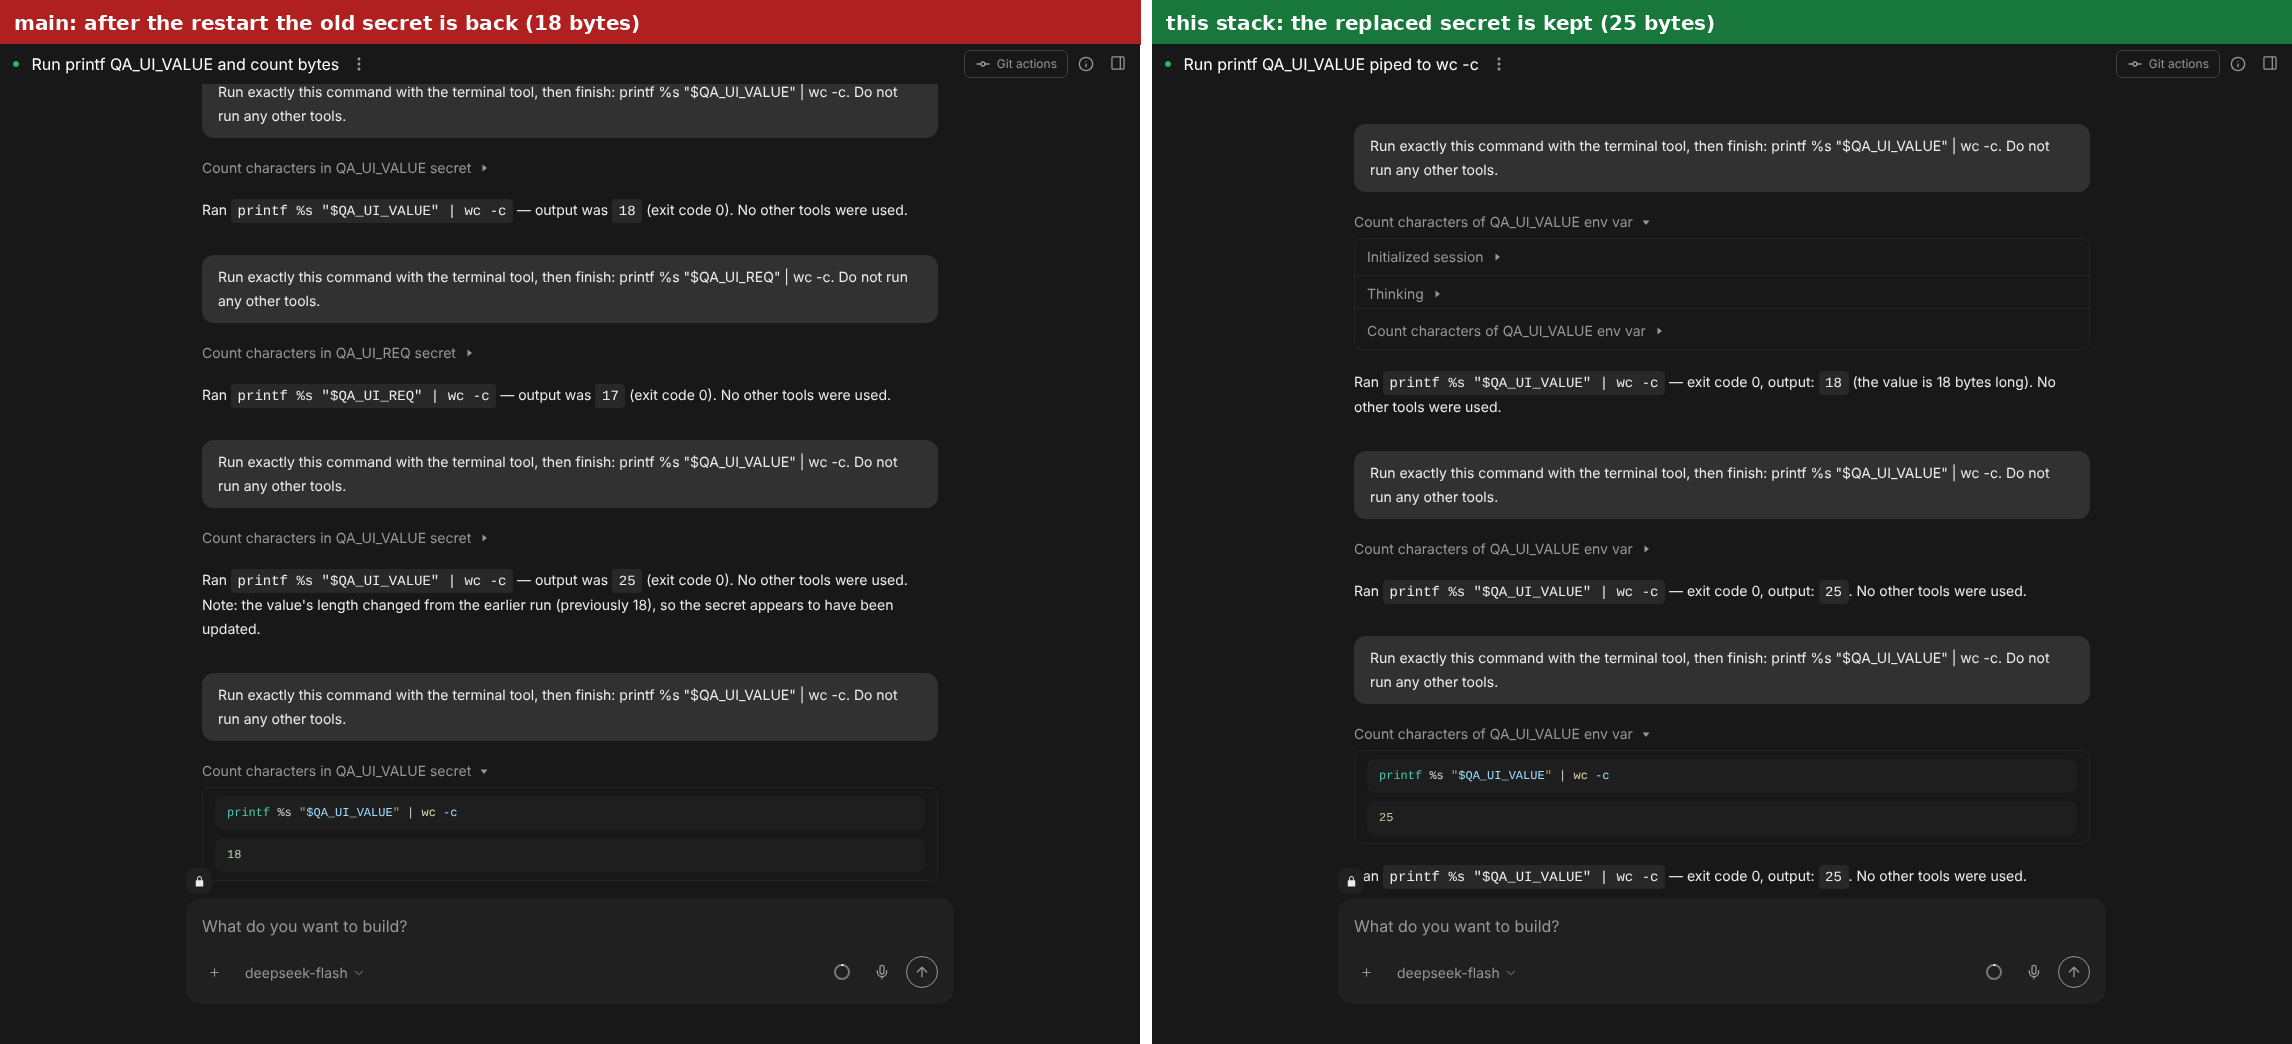
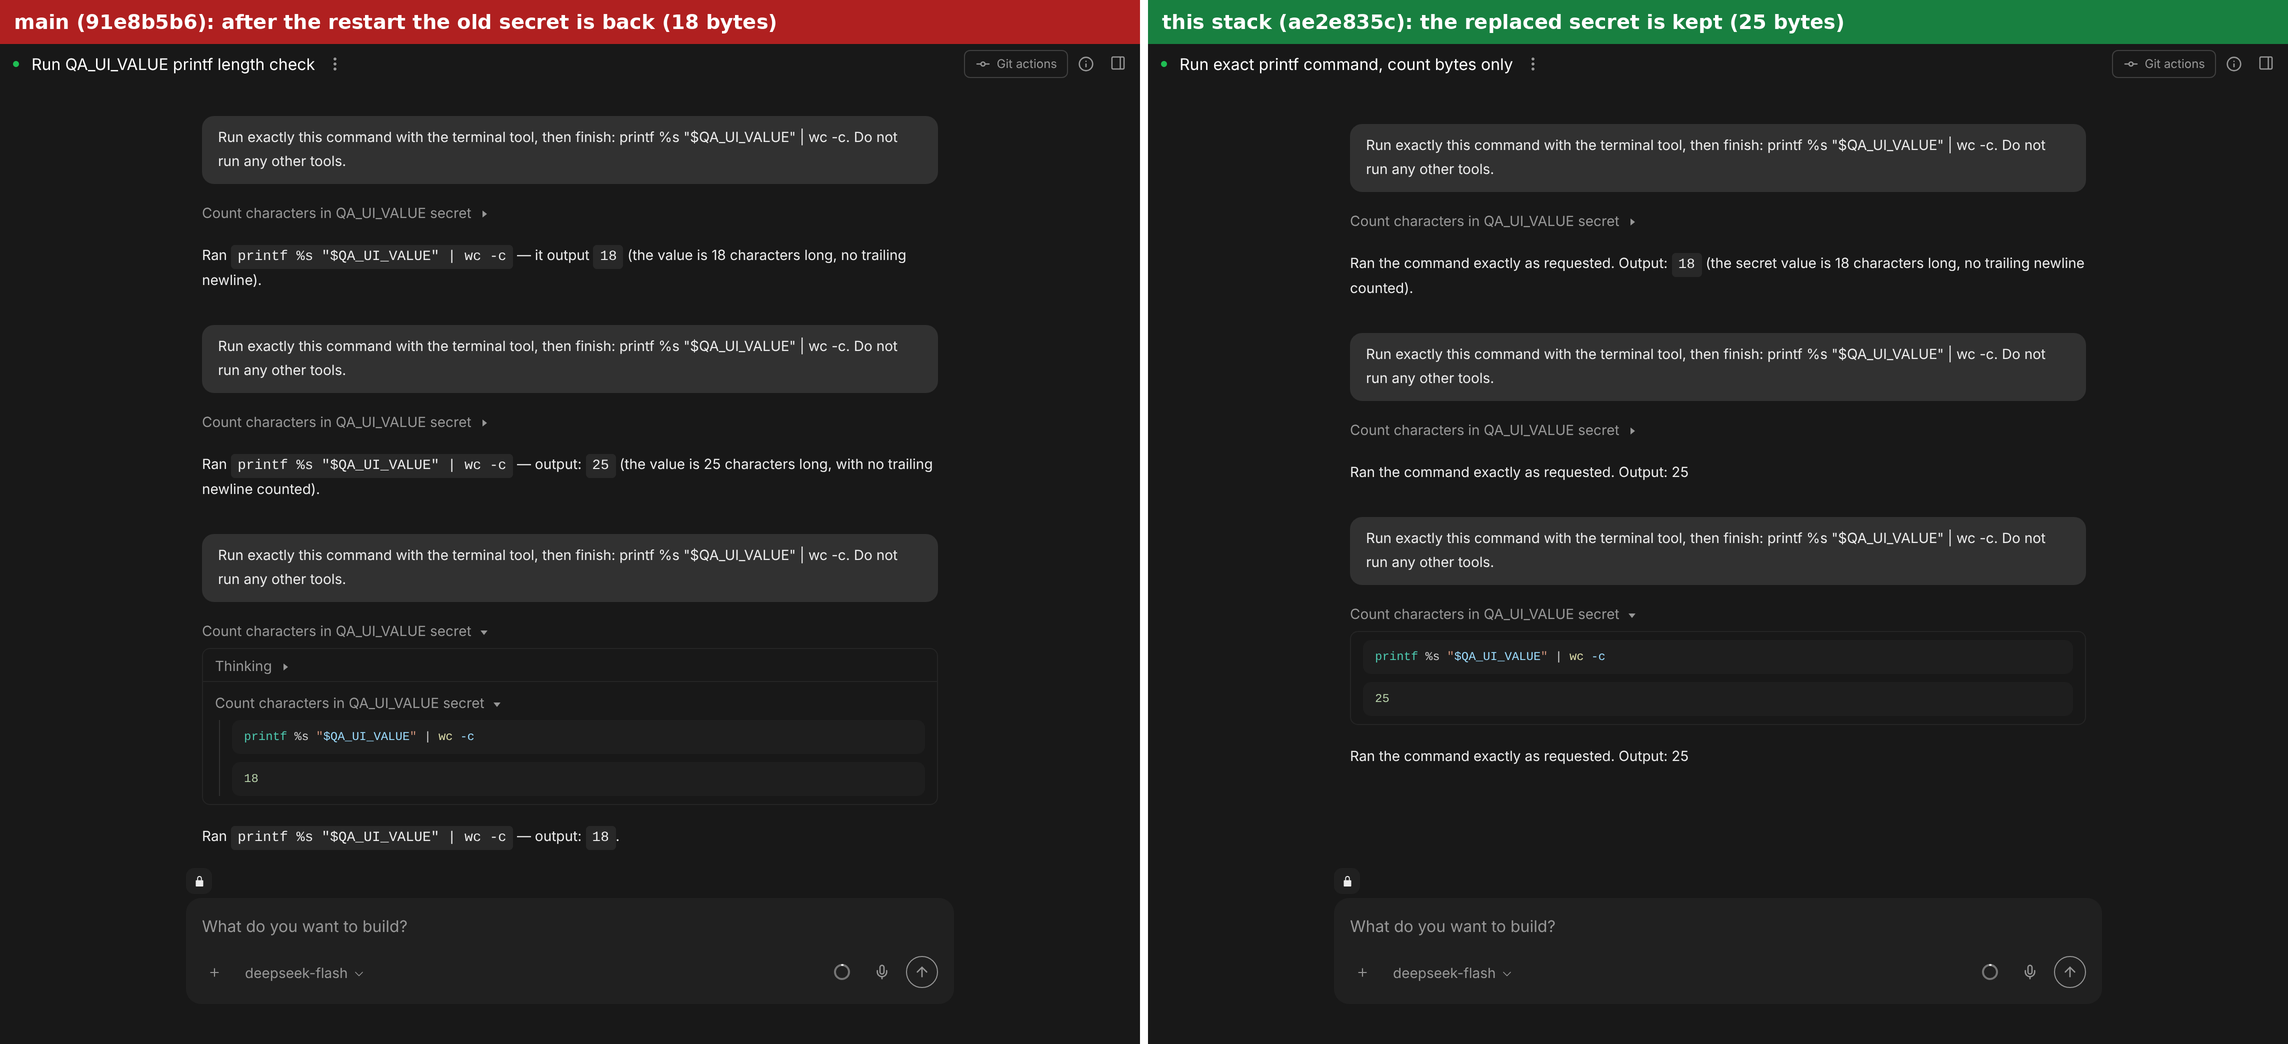
Verification record for the stack on the merged code
The runs are repeated on main at 91e8b5b6 and on the final commits of
the three parts: the before/after pairs, the whole families next to the
same families on main, the Agent Canvas UI, and the checks CI runs only
for PRs into main.

Claude-Session: https://claude.ai/code/session_013ArwwMuszm1Nt9r2whddpY

diff --git a/.pr/single-owner/README.md b/.pr/single-owner/README.md
@@ -4,9 +4,9 @@ How the stack #6762 → #6763 → #6764 was verified. This is a temporary PR
 artifact (see `AGENTS.md`, "PR-specific artifacts"); the next release PR
 removes it.
 
-- Base: `main` at `56d559f6`.
-- Code under test: part 1 `c0fa0cd4`, part 2 `f584d5db`, part 3 `4b4d01c7`. The commit
-  that adds this file changes nothing else.
+- Base: `main` at `91e8b5b6`, merged into all three branches.
+- Code under test: part 1 `bfa0862b`, part 2 `cd8f1482`, part 3 `ae2e835c`. The commit
+  after `ae2e835c` adds this record and changes nothing else.
 - Every live attempt launches its own agent-server
   (`control-agent-server map run --fresh`); "restart" is a real process
   restart on the same state directory. Runs were wrapped in
@@ -16,6 +16,9 @@ removes it.
   scripted `llm-stub` and need no key.
 - `xfail`: the bullet failed with exactly the failure its known-bug marker
   documents. `xpass`: that failure did not reproduce.
+- The `main` baselines of the whole families were run once, before the last
+  three small fixes to the stack; `main` did not change in between. Every
+  run on the stack is on the commits named above.
 
 ## 1. The bug on `main` and the fix, on live servers
 
@@ -38,9 +41,11 @@ SDK map, `S04.secrets-update` and `S04.secrets-constructor`: fail on `main`
 | Bullet | `main`, 2 attempts | this branch, 2 attempts |
 |---|---|---|
 | `F10.fork-keeps-credentials` | xfail, xfail | xpass, xpass |
-| `F10.fork-run-memory` | xfail, xfail | xpass, xpass |
+| `F10.fork-run-memory` | fail, fail | xpass, xpass |
 
-SDK map, `S04.fork-keeps-state`: fails 15 checks on `main`, passes on part 2.
+`F10.fork-run-memory` reports `fail` on `main` and not `xfail`: the fork's run still ends in `error` because the fork lost the model key, but the provider's rejection ("Authentication Fails") is recorded as `LLMBadRequestError` this time, not as the `LLMAuthenticationError` the map's marker names, so the runner does not count it as the documented failure. On this branch the fork runs to `finished` and recalls the codename.
+
+SDK map, `S04.fork-keeps-state`: fails 16 checks on `main`, passes on part 2.
 
 ### Part 3 (#6764): `meta.json` no longer holds a second copy
 
@@ -58,59 +63,62 @@ known-bug marker, against a server from `main` and then from part 3.
 | `F08.child-inherits-current` | xfail, xfail | xpass, xpass |
 | `F08.reload-after-pause` | xfail, xfail | xpass, xpass |
 
-## 2. Whole families on part 3's code
+## 2. Whole families on part 3's code, and the same families on `main`
 
-| Family | Result |
-|---|---|
-| `F08` confirmation, security, secrets | 34 of 34 pass |
-| `F10` fork, navigate, condense, ask | 27 of 27 pass |
-| `F04` conversation lifecycle | 36 pass; 1 xfail that `main` has too (`F04.create-initial-message-run-false`) |
-| `F12` runtime and credentials | 29 pass; 1 xfail that `main` has too (`F12.sandbox-pause-websocket`); `F12.docker-runtime` blocked (needs a Docker daemon); `F12.docker-startup-timeout` blocked (needs a Docker daemon) |
-| `F31` persistence and limits | 22 pass; 1 xfail that `main` has too (`F31.takeover-keeps-metadata`); `F31.storage-retention` blocked (labelled blocked in the map) |
-| `F33` Python `RemoteConversation`: run, fork, confirmation, secrets | 5 of 5 pass |
-| `F34` TypeScript client: create, run, fork/navigate/ask, confirm | 5 of 5 pass |
-| `S04` local conversation (SDK map) | 25 pass; 1 fail that `main` has too (`S04.persist-events`, `S05.event-log-recovery`); `S04.factory` labelled blocked in the map |
-| `S13` security and confirmation (SDK map) | 7 pass; `S13.llm-analyzer`, `S13.confirm-wait`, `S13.confirm-approve-reject` blocked this time: the model did not propose the risky command the bullet needs; `S13.confirm-approve-reject`, `S13.llm-analyzer` labelled blocked in the map |
+| Family | this branch | `main` (`91e8b5b6`), its own map |
+|---|---|---|
+| `F08` confirmation, security, secrets | 34 of 34 pass | 22 of 24 pass, 2 xfail |
+| `F10` fork, navigate, condense, ask | 25 of 27 pass; 2 fail that also fail on `main` (`F10.ask-agent`, `F10.ask-agent-running`) | 22 of 26 pass, 3 fail, 1 xfail |
+| `F04` conversation lifecycle | 33 of 37 pass; 1 xfail that `main` has too (`F04.create-initial-message-run-false`); 3 fail that also fail on `main` (`F04.delete`, `F04.delete-unknown-id`, `F04.restart-persist`) | 32 of 37 pass, 3 fail, 2 xfail |
+| `F12` runtime and credentials | 29 of 32 pass; 1 xfail that `main` has too (`F12.sandbox-pause-websocket`); `F12.docker-runtime` blocked (needs a Docker daemon); `F12.docker-startup-timeout` blocked (needs a Docker daemon) | 29 of 32 pass, 1 xfail, 2 blocked |
+| `F31` persistence and limits | 22 of 24 pass; 1 xfail that `main` has too (`F31.takeover-keeps-metadata`); `F31.storage-retention` blocked (labelled blocked in the map) | 22 of 24 pass, 1 xfail, 1 blocked |
+| `F33` Python `RemoteConversation`: run, fork, confirmation, secrets | 5 of 5 pass | 5 of 5 pass |
+| `F34` TypeScript client: create, run, fork/navigate/ask, confirm | 4 of 5 pass; 1 fail that also fails on `main` (`F34.conversation-branching`) | 4 of 5 pass, 1 fail |
+| `S04` local conversation (SDK map) | 25 of 27 pass; 1 fail that also fails on `main` (`S04.persist-events`, `S05.event-log-recovery`); `S04.factory` labelled blocked in the map | 24 of 26 pass, 1 fail, 1 blocked |
+| `S13` security and confirmation (SDK map) | 8 of 9 pass; `S13.confirm-approve-reject`, `S13.llm-analyzer` labelled blocked in the map | 7 of 9 pass, 2 blocked |
+
+Every bullet that does not pass on part 3 does not pass on `main` either.
+The failures the two share are recipes in `main`'s map that lag `main` itself: `F04.delete` waits for a `PauseEvent` on a socket that is now closed with "Conversation deleted" (`F04.delete-unknown-id` and `F04.restart-persist` reuse its conversation), and after a side question the event count is one higher than `F10.ask-agent`, `F10.ask-agent-running` and `F34.conversation-branching` expect. I left those recipes alone; they are not about this change.
 
 SDK maps on parts 1 and 2:
 
 | Family | Result |
 |---|---|
-| `S04` local conversation (SDK map) | 24 pass; 1 fail that `main` has too (`S04.persist-events`, `S05.event-log-recovery`); `S04.factory` labelled blocked in the map |
-| `S13` security and confirmation (SDK map) | 8 pass; `S13.confirm-approve-reject`, `S13.llm-analyzer` labelled blocked in the map |
+| `S04` local conversation (SDK map) | 24 of 26 pass; 1 fail that also fails on `main` (`S04.persist-events`, `S05.event-log-recovery`); `S04.factory` labelled blocked in the map |
+| `S13` security and confirmation (SDK map) | 8 of 9 pass; `S13.confirm-approve-reject`, `S13.llm-analyzer` labelled blocked in the map |
 
 | Family | Result |
 |---|---|
-| `S04` local conversation (SDK map) | 25 pass; 1 fail that `main` has too (`S04.persist-events`, `S05.event-log-recovery`); `S04.factory` labelled blocked in the map |
-| `S13` security and confirmation (SDK map) | 7 pass; `S13.llm-analyzer`, `S13.confirm-wait`, `S13.confirm-approve-reject` blocked this time: the model did not propose the risky command the bullet needs; `S13.confirm-approve-reject`, `S13.llm-analyzer` labelled blocked in the map |
+| `S04` local conversation (SDK map) | 25 of 27 pass; 1 fail that also fails on `main` (`S04.persist-events`, `S05.event-log-recovery`); `S04.factory` labelled blocked in the map |
+| `S13` security and confirmation (SDK map) | 8 of 9 pass; `S13.confirm-approve-reject`, `S13.llm-analyzer` labelled blocked in the map |
 
-The `S04.persist-events` / `S05.event-log-recovery` bullet fails the same way on `main`. The model-backed `S13.llm-analyzer` bullet needs DeepSeek to propose a risky command and to rate it `HIGH`; when the model does not, the bullet reports `blocked` or `fail`, on `main` as well (repeated alone it failed 1 time in 3 on `main` and 2 in 3 on the stack). Neither touches this change.
+The one `S04` failure is the event-log recovery bullet; it fails the same way on `main` and does not touch this change.
 
 ## 3. Through the Agent Canvas UI
 
-The full OpenHands UI (Agent Canvas, built from the `OpenHands/OpenHands` repository) was run with that repository's `verify-openhands` skill (`control-openhands launch --sdk-path <checkout>`), once on `main`'s SDK and agent-server and once on this branch's, with a real model (DeepSeek flash). The Canvas has no control that changes confirmation mode on an existing conversation, and it only ever sends lookup secrets, so two steps were made through the REST API: that switch, and the replacement of the secret's value. Everything else was typed and clicked in the UI, and each stack was restarted for real.
+The full OpenHands UI (Agent Canvas, built from the `OpenHands/OpenHands` repository) was run with that repository's `verify-openhands` skill (`control-openhands launch --sdk-path <checkout>`), once on `main`'s SDK and agent-server (`91e8b5b6`) and once on this branch's (`ae2e835c`), with a real model (DeepSeek flash). The Canvas has no control that changes confirmation mode on an existing conversation, and it only ever sends lookup secrets, so two steps were made through the REST API: that switch, and the replacement of the secret's value. Everything else was typed and clicked in the UI, and each stack was restarted for real.
 
 | Scenario, observed in the UI | `main` | this branch |
 |---|---|---|
-| Conversation switched to `AlwaysConfirm`, then a backend restart, then a new command | ran without asking, in 2 of 2 attempts | waited for approval, in 2 of 2 attempts; Continue ran it, Cancel rejected it |
+| Conversation switched to `AlwaysConfirm`, then a backend restart, then a new command | ran without asking, in 2 of 2 attempts | waited for approval, in 2 of 2 attempts; Continue ran it, Cancel rejected the next one |
 | Secret replaced at runtime (18 bytes → 25), then a restart; length read by the agent | 18: the old value is back | 25 |
 | New conversation started in confirmation mode: reject, approve, restart, next command | waits (creation-time value) | waits |
-| `meta.json` read back at every step | had `confirmation_policy`, `security_analyzer`, `secrets` in 25 of 25 read-backs | had none of them in 21 of 21 |
+| `meta.json` read back at every step | had `confirmation_policy`, `security_analyzer`, `secrets` in 29 of 29 read-backs | had none of them in 31 of 31 |
 
 ![policy after a restart](ui-policy-after-restart.png)
 
 ![replaced secret after a restart](ui-secret-after-restart.png)
 
-On `main` the revert is also written back: loading the conversation after the restart overwrote `base_state.json` with the creation-time policy. No secret value appears in the page (text and DOM), in the API events or in the conversation's state directory, and the screenshots show only the lengths.
+On `main` the revert is also written back: once the conversation is loaded after the restart, `base_state.json` holds the creation-time policy again. While the Add-secret form is being filled, the typed value is in that masked field; otherwise no secret value appears in the page (text and DOM), in the API events or in the conversation's state directory, on either side, and the screenshots show only lengths. An independent pass recounted every number in this table from the saved read-backs and step logs.
 
 ## 4. Checks CI runs only for PRs into `main`, run on part 3
 
-- The exported OpenAPI document (`export_agent_server_openapi.py`) is byte-identical to `main`'s.
-- REST API breakage check (`check_agent_server_rest_api_breakage.py`, with oasdiff 1.19.1): no breaking changes.
+- The exported OpenAPI document (`export_agent_server_openapi.py`) is byte-identical to `main`'s at `91e8b5b6`.
+- REST API breakage check (`check_agent_server_rest_api_breakage.py`, with oasdiff 1.19.1): passes. What it lists against the 1.62.0 release are `main`'s own additive changes (the reaction events of #6609); with an identical OpenAPI document, this branch adds nothing to them.
 - Persisted settings compatibility (`check_persisted_settings_compat.py`): passes, the payloads of the 1.62.0 release included.
 - SDK API breakage check (`check_sdk_api_breakage.py`): no breaking changes in the three packages.
 - `make test-server-schema`: passes.
-- `main`'s agent-server code (the released 1.62.0) starts a conversation on this branch's SDK.
+- The agent-server code of the 1.62.0 release (tag `v1.62.0`) starts a conversation on this branch's SDK.
 
 ## 5. Reproduce
 
